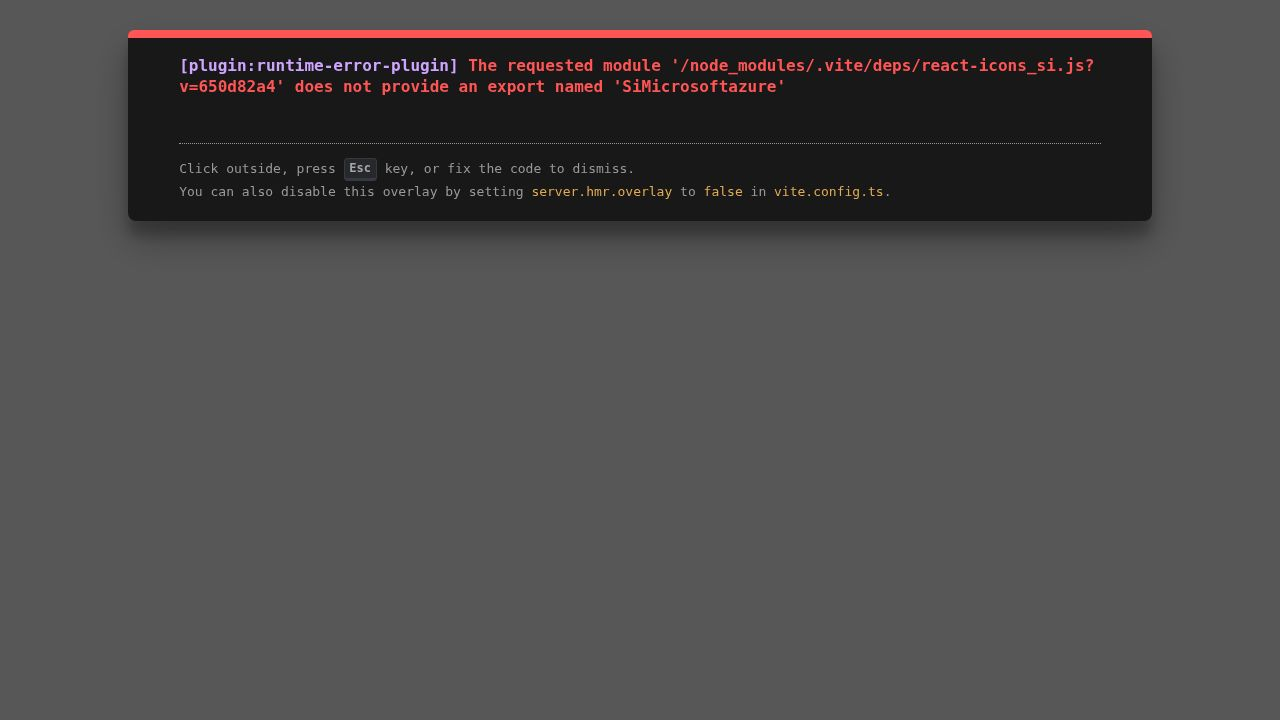
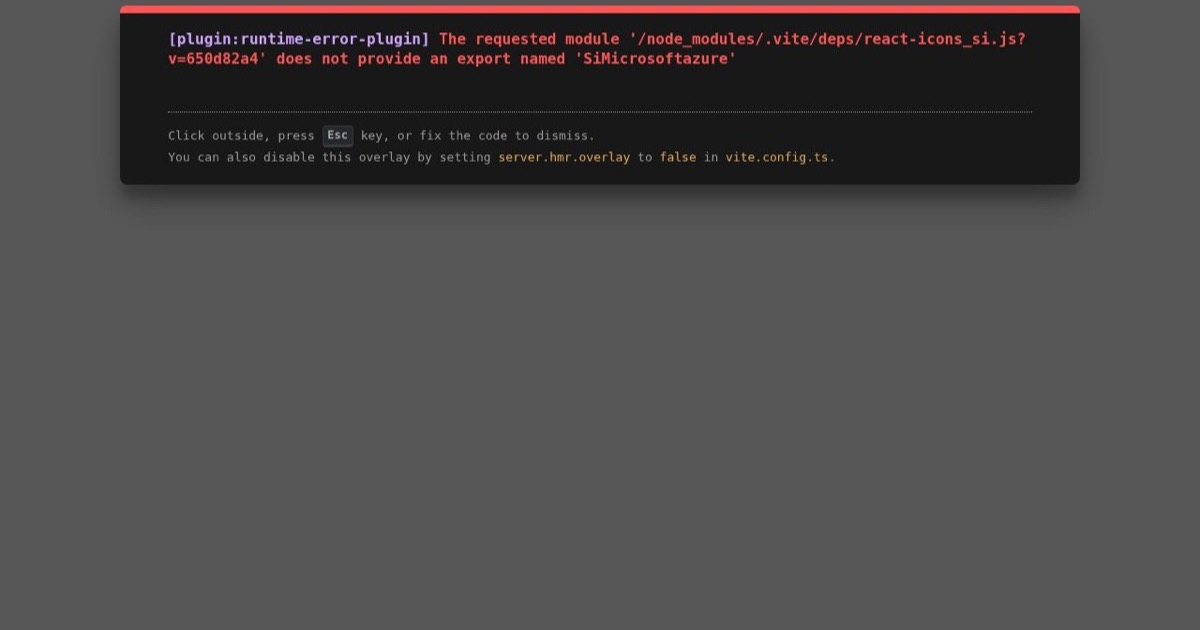
fix(review): a11y, LCP, CSP, SEO + cleanup from Phase-9 deep-review
A11y (incl. real WCAG AA bug): deepen --destructive #ef4444→#b52a2a (error text
was 3.8:1 on white); role=alert on field errors; focus moves to success + sr-only
in-flight status; role=group+label on Turnstile; nav focus rings; Escape returns
focus to toggle; tech icons role=img.
LCP: slide-only hero entrance (no opacity:0 on the h1 LCP element); preload the
Outfit woff2; logo fetchpriority=high.
Security: CSP form-action + base-uri 'self'; drop deprecated X-XSS-Protection;
waitUntil sentinel; document the intentional n8n-payload escape + local rate-limit.
SEO: og:image width/height/alt + twitter:image:alt, og:locale; OG image 1200×630;
JSON-LD Person/Service @user + de-duped Org sameAs; noindex legal pages + sitemap filter.
Cleanup: drop tsconfig react-jsx leftover, unused space-mono italic, dead /fonts/*
cache rule, rel=noreferrer on external links.

Changed region(s): [[0.0925, 0.0, 0.925, 0.1508], [0.0925, 0.181, 0.8942, 0.3317]]

diff --git a/src/styles/global.css b/src/styles/global.css
@@ -39,7 +39,10 @@
      section). Use `text-accent-bright` for accent text on dark backgrounds. */
   --color-accent-bright: hsl(25 95% 55%);
 
-  --color-destructive: hsl(0 84% 60%);
+  /* Deepened from designer's 0 84% 60% (#ef4444 ≈ 3.8:1 on the white form card —
+     failed WCAG AA for error text) to 0 72% 42% (#b52a2a ≈ 5:1 on white; white
+     foreground still clears AA on it). Deep-review H1, 2026-06-05. */
+  --color-destructive: hsl(0 72% 42%);
   --color-destructive-foreground: hsl(0 0% 100%);
 
   --font-sans: 'Outfit Variable', 'Outfit', ui-sans-serif, system-ui, sans-serif;
@@ -67,10 +70,14 @@ html {
   scroll-behavior: smooth;
 }
 
-/* Hero entrance — replaces framer-motion (crawler-safe, CSP-safe) */
+/* Hero entrance — replaces framer-motion (crawler-safe, CSP-safe).
+   Slide-only (no opacity fade): the wrapper holds the <h1> LCP element, and
+   animating opacity from 0 hides the largest paint until the animation fires,
+   inflating LCP. translateY keeps the text fully painted from frame 0.
+   Deep-review H2, 2026-06-05. */
 @keyframes fade-up {
-  from { opacity: 0; transform: translateY(20px); }
-  to   { opacity: 1; transform: translateY(0); }
+  from { transform: translateY(20px); }
+  to   { transform: translateY(0); }
 }
 .animate-fade-up {
   animation: fade-up 0.5s ease-out both;

diff --git a/functions/_lib/ghl.ts b/functions/_lib/ghl.ts
@@ -166,7 +166,10 @@ export async function withOptimisticResponse(
           new Promise<void>((_, reject) =>
             setTimeout(() => reject(new Error('Background safety timeout')), BACKGROUND_SAFETY_MS),
           ),
-        ]).catch(() => notifyFallback(env, lead, 'Background safety timeout exceeded')),
+        ]).catch(() => notifyFallback(env, lead, 'Background safety timeout exceeded'))
+          // Sentinel: guarantee the waitUntil chain never surfaces an unhandled
+          // rejection in the isolate, even if notifyFallback itself were to throw.
+          .catch(() => {}),
       );
       resolve(json({ success: true, pending: true }));
     }, CLIENT_TIMEOUT_MS),
@@ -200,6 +203,13 @@ async function computeHmac(secret: string, body: string): Promise<string> {
     .join('');
 }
 
+// DELIBERATE: HTML-escape lead strings before they go into the n8n payload.
+// Normally you would NOT escape JSON sent to a webhook (it yields &amp; artifacts),
+// but the n8n "Lead Recovery Email" node interpolates these fields straight into an
+// HTML email body WITHOUT escaping — so escaping here is the injection defense for
+// the notification inbox. The cosmetic &amp; on a literal "&" is the accepted
+// trade-off. (Deep-review L5 — keep, with this rationale. If n8n is ever changed to
+// escape in-template, drop this and send raw.)
 function sanitize(payload: Record<string, unknown>): Record<string, unknown> {
   const out: Record<string, unknown> = {};
   for (const [k, v] of Object.entries(payload)) out[k] = typeof v === 'string' ? escapeHtml(v) : v;

diff --git a/functions/api/contact.ts b/functions/api/contact.ts
@@ -90,7 +90,9 @@ export const onRequestPost = async ({ request, env, waitUntil }: Ctx): Promise<R
     return jsonError('Forbidden.', 403);
   }
 
-  // 2. Rate limit.
+  // 2. Rate limit. In production CF always sets CF-Connecting-IP; the 'unknown'
+  // fallback only hits in local `wrangler pages dev`, where all requests share one
+  // bucket (a dev submitting repeatedly can 429 themselves — expected locally).
   const ip = request.headers.get('CF-Connecting-IP') || 'unknown';
   if (rateLimited(ip)) {
     return new Response(JSON.stringify({ error: 'Too many requests. Please try again shortly.' }), {